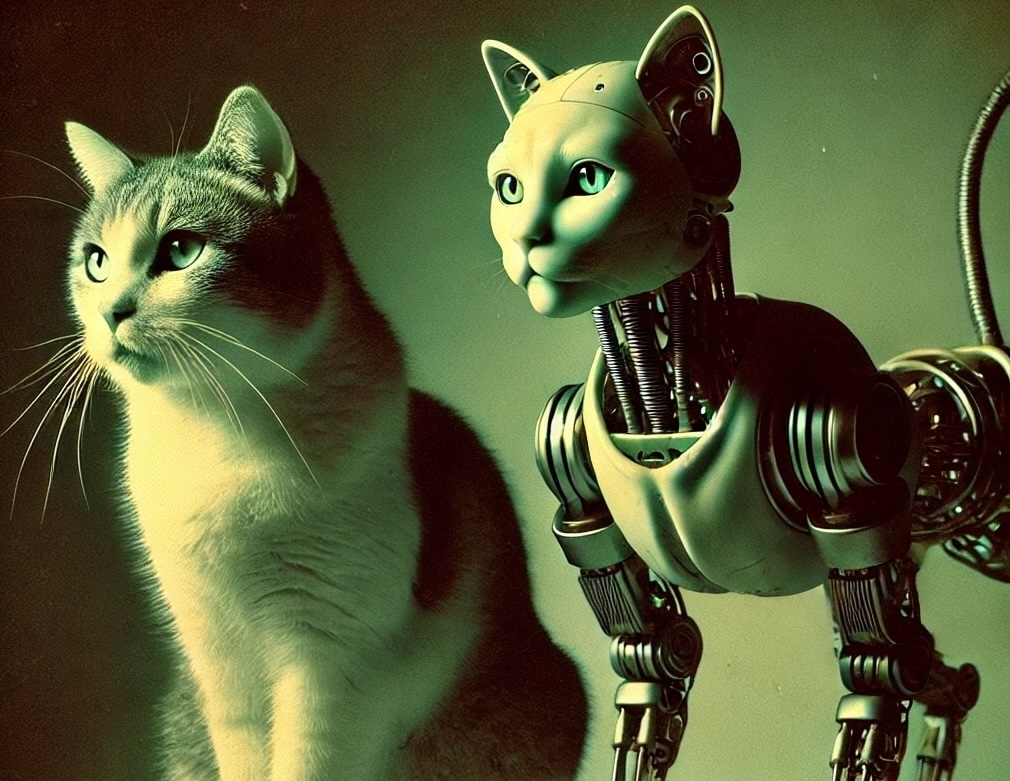
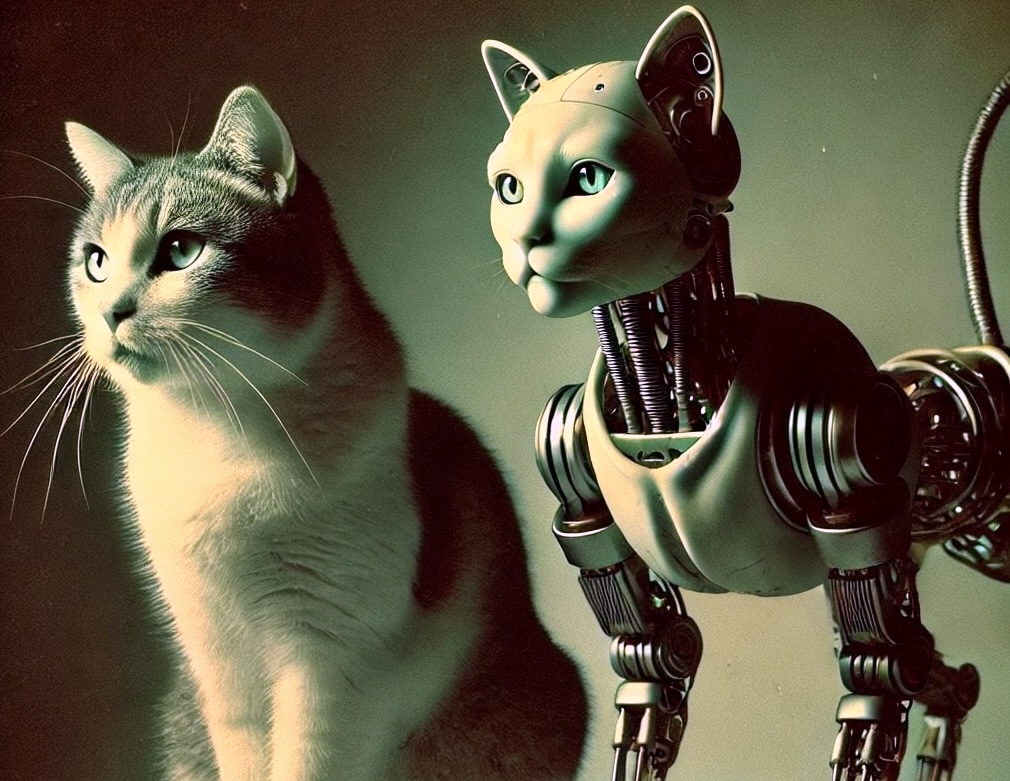
Recolour cats photo. Regenerate website.

diff --git a/docs/sweet-variant-o-mine-rust-enums-in-c.html b/docs/sweet-variant-o-mine-rust-enums-in-c.html
@@ -84,7 +84,7 @@
 <p>Let’s be real: C++’s <strong>variant</strong> won’t match Rust enums for elegance. But that’s C++ in a nutshell - it hands you the tools to solve nearly any problem, even if the solution is a little rough around the edges. Yes, defining structs and writing visitors with overloaded lambdas is boilerplate-heavy, but it’s there if you ever need it. Just don't overuse it.</p>
 <hr class="before-footer"/>
 <footer>
-                Generated from <a href="https://github.com/panmar/blog/commit/d26ceca">commit d26ceca</a> on <nobr>2025-02-06 14:05:01+01:00</nobr>.
+                Generated from <a href="https://github.com/panmar/blog/commit/69cd9c7">commit 69cd9c7</a> on <nobr>2025-02-06 19:41:59+01:00</nobr>.
                 Content licensed under <a href="https://creativecommons.org/licenses/by-nc-nd/4.0/">CC BY-NC-ND 4.0</a>.
             </footer>
 </div>

diff --git a/docs/need-for-speed-c-unity-builds.html b/docs/need-for-speed-c-unity-builds.html
@@ -107,7 +107,7 @@ Compiling<span class="w"> </span>normal<span class="w"> </span>build<span class=
 <p>You can learn more about unity builds from <a class="reference external" href="https://onqtam.com/programming/2018-07-07-unity-builds/">Viktor Kirilov</a>.</p>
 <hr class="before-footer"/>
 <footer>
-                Generated from <a href="https://github.com/panmar/blog/commit/d26ceca">commit d26ceca</a> on <nobr>2025-02-06 14:05:01+01:00</nobr>.
+                Generated from <a href="https://github.com/panmar/blog/commit/69cd9c7">commit 69cd9c7</a> on <nobr>2025-02-06 19:41:59+01:00</nobr>.
                 Content licensed under <a href="https://creativecommons.org/licenses/by-nc-nd/4.0/">CC BY-NC-ND 4.0</a>.
             </footer>
 </div>

diff --git a/docs/locality-sensitive-hashing-minhash.html b/docs/locality-sensitive-hashing-minhash.html
@@ -84,7 +84,7 @@
 <p>The algorithm I’ve just described is called <a class="reference external" href="https://en.wikipedia.org/wiki/MinHash">MinHash</a>, and it’s a powerful technique for grouping similar sets of items efficiently.</p>
 <hr class="before-footer"/>
 <footer>
-                Generated from <a href="https://github.com/panmar/blog/commit/d26ceca">commit d26ceca</a> on <nobr>2025-02-06 14:05:01+01:00</nobr>.
+                Generated from <a href="https://github.com/panmar/blog/commit/69cd9c7">commit 69cd9c7</a> on <nobr>2025-02-06 19:41:59+01:00</nobr>.
                 Content licensed under <a href="https://creativecommons.org/licenses/by-nc-nd/4.0/">CC BY-NC-ND 4.0</a>.
             </footer>
 </div>

diff --git a/docs/first-post.html b/docs/first-post.html
@@ -50,7 +50,7 @@ I'm using modified <a class="reference external" href="https://github.com/panmar
 I've been tweaking during night hours - hence the dark theme.</p>
 <hr class="before-footer"/>
 <footer>
-                Generated from <a href="https://github.com/panmar/blog/commit/d26ceca">commit d26ceca</a> on <nobr>2025-02-06 14:05:01+01:00</nobr>.
+                Generated from <a href="https://github.com/panmar/blog/commit/69cd9c7">commit 69cd9c7</a> on <nobr>2025-02-06 19:41:59+01:00</nobr>.
                 Content licensed under <a href="https://creativecommons.org/licenses/by-nc-nd/4.0/">CC BY-NC-ND 4.0</a>.
             </footer>
 </div>

diff --git a/docs/trust-the-source-luke.html b/docs/trust-the-source-luke.html
@@ -78,7 +78,7 @@
 <p>Be careful where you place your trust.</p>
 <hr class="before-footer"/>
 <footer>
-                Generated from <a href="https://github.com/panmar/blog/commit/d26ceca">commit d26ceca</a> on <nobr>2025-02-06 14:05:01+01:00</nobr>.
+                Generated from <a href="https://github.com/panmar/blog/commit/69cd9c7">commit 69cd9c7</a> on <nobr>2025-02-06 19:41:59+01:00</nobr>.
                 Content licensed under <a href="https://creativecommons.org/licenses/by-nc-nd/4.0/">CC BY-NC-ND 4.0</a>.
             </footer>
 </div>

diff --git a/docs/crazy-little-thing-called-float.html b/docs/crazy-little-thing-called-float.html
@@ -193,7 +193,7 @@ gap = 2^{expontent - 23}
 </script>
 <hr class="before-footer"/>
 <footer>
-                Generated from <a href="https://github.com/panmar/blog/commit/d26ceca">commit d26ceca</a> on <nobr>2025-02-06 14:05:01+01:00</nobr>.
+                Generated from <a href="https://github.com/panmar/blog/commit/69cd9c7">commit 69cd9c7</a> on <nobr>2025-02-06 19:41:59+01:00</nobr>.
                 Content licensed under <a href="https://creativecommons.org/licenses/by-nc-nd/4.0/">CC BY-NC-ND 4.0</a>.
             </footer>
 </div>

diff --git a/docs/index.html b/docs/index.html
@@ -43,7 +43,7 @@
 </ul>
 <hr class="before-footer"/>
 <footer>
-                Generated from <a href="https://github.com/panmar/blog/commit/d26ceca">commit d26ceca</a> on <nobr>2025-02-06 14:05:01+01:00</nobr>.
+                Generated from <a href="https://github.com/panmar/blog/commit/69cd9c7">commit 69cd9c7</a> on <nobr>2025-02-06 19:41:59+01:00</nobr>.
                 Content licensed under <a href="https://creativecommons.org/licenses/by-nc-nd/4.0/">CC BY-NC-ND 4.0</a>.
             </footer>
 </div>

diff --git a/docs/interview-with-the-programmer.html b/docs/interview-with-the-programmer.html
@@ -59,7 +59,7 @@
 </ul>
 <hr class="before-footer"/>
 <footer>
-                Generated from <a href="https://github.com/panmar/blog/commit/d26ceca">commit d26ceca</a> on <nobr>2025-02-06 14:05:01+01:00</nobr>.
+                Generated from <a href="https://github.com/panmar/blog/commit/69cd9c7">commit 69cd9c7</a> on <nobr>2025-02-06 19:41:59+01:00</nobr>.
                 Content licensed under <a href="https://creativecommons.org/licenses/by-nc-nd/4.0/">CC BY-NC-ND 4.0</a>.
             </footer>
 </div>

diff --git a/docs/pages/contact.html b/docs/pages/contact.html
@@ -38,7 +38,7 @@
 </ul>
 <hr class="before-footer"/>
 <footer>
-                Generated from <a href="https://github.com/panmar/blog/commit/d26ceca">commit d26ceca</a> on <nobr>2025-02-06 14:05:01+01:00</nobr>.
+                Generated from <a href="https://github.com/panmar/blog/commit/69cd9c7">commit 69cd9c7</a> on <nobr>2025-02-06 19:41:59+01:00</nobr>.
                 Content licensed under <a href="https://creativecommons.org/licenses/by-nc-nd/4.0/">CC BY-NC-ND 4.0</a>.
             </footer>
 </div>

diff --git a/docs/tag/algorithm.html b/docs/tag/algorithm.html
@@ -42,7 +42,7 @@
 </ul>
 <hr class="before-footer"/>
 <footer>
-                Generated from <a href="https://github.com/panmar/blog/commit/d26ceca">commit d26ceca</a> on <nobr>2025-02-06 14:05:01+01:00</nobr>.
+                Generated from <a href="https://github.com/panmar/blog/commit/69cd9c7">commit 69cd9c7</a> on <nobr>2025-02-06 19:41:59+01:00</nobr>.
                 Content licensed under <a href="https://creativecommons.org/licenses/by-nc-nd/4.0/">CC BY-NC-ND 4.0</a>.
             </footer>
 </div>

diff --git a/docs/tag/c.html b/docs/tag/c.html
@@ -44,7 +44,7 @@
 </ul>
 <hr class="before-footer"/>
 <footer>
-                Generated from <a href="https://github.com/panmar/blog/commit/d26ceca">commit d26ceca</a> on <nobr>2025-02-06 14:05:01+01:00</nobr>.
+                Generated from <a href="https://github.com/panmar/blog/commit/69cd9c7">commit 69cd9c7</a> on <nobr>2025-02-06 19:41:59+01:00</nobr>.
                 Content licensed under <a href="https://creativecommons.org/licenses/by-nc-nd/4.0/">CC BY-NC-ND 4.0</a>.
             </footer>
 </div>

diff --git a/docs/tag/ieee-754.html b/docs/tag/ieee-754.html
@@ -42,7 +42,7 @@
 </ul>
 <hr class="before-footer"/>
 <footer>
-                Generated from <a href="https://github.com/panmar/blog/commit/d26ceca">commit d26ceca</a> on <nobr>2025-02-06 14:05:01+01:00</nobr>.
+                Generated from <a href="https://github.com/panmar/blog/commit/69cd9c7">commit 69cd9c7</a> on <nobr>2025-02-06 19:41:59+01:00</nobr>.
                 Content licensed under <a href="https://creativecommons.org/licenses/by-nc-nd/4.0/">CC BY-NC-ND 4.0</a>.
             </footer>
 </div>
